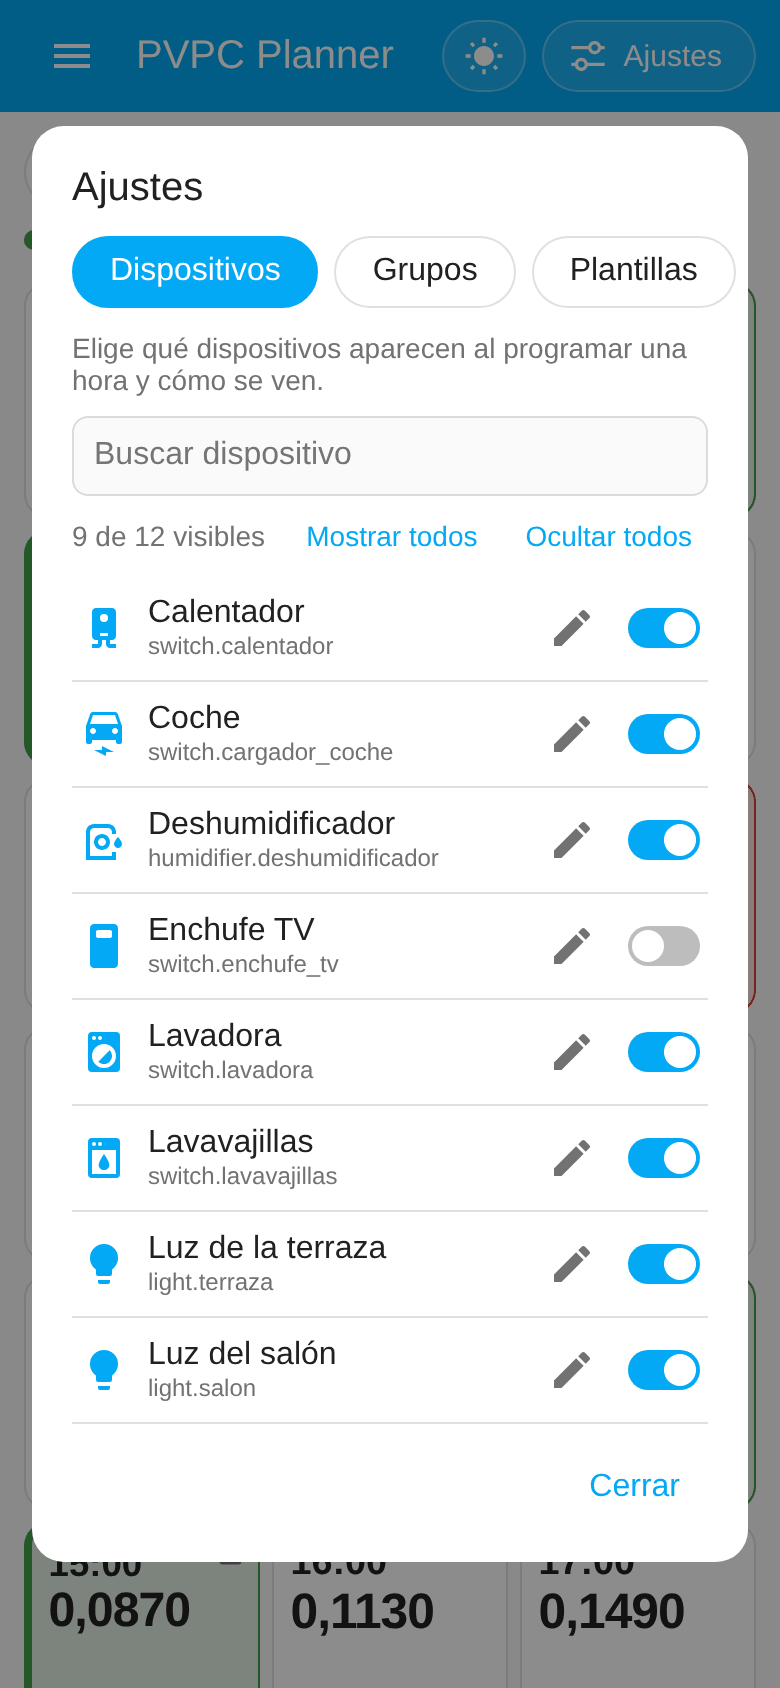
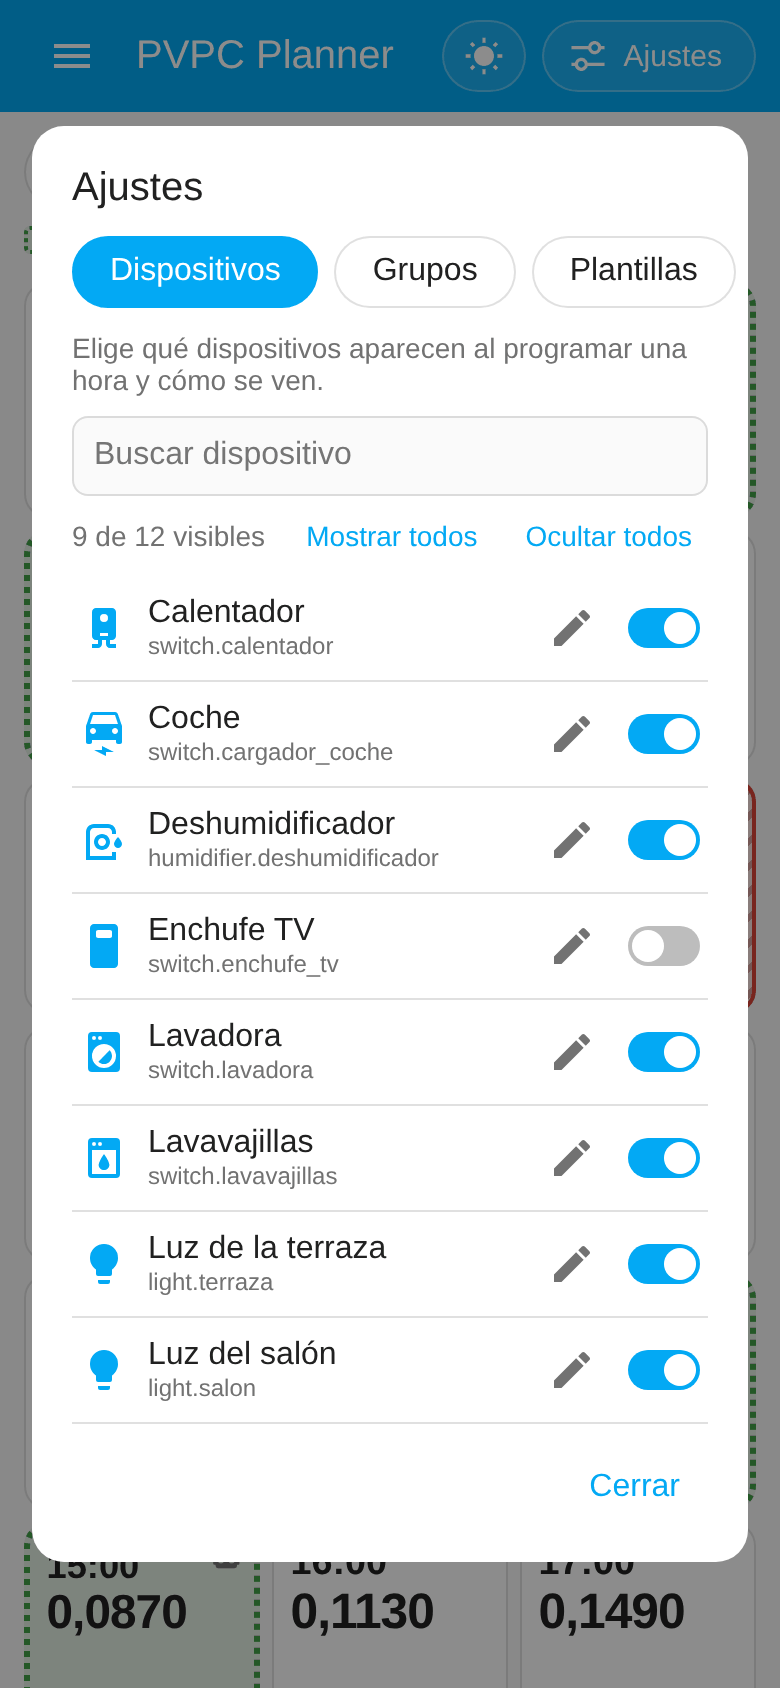
Panel: horas caras rayadas y baratas con borde punteado, como la imagen
Capturas y GIFs del README regenerados.

Claude-Session: https://claude.ai/code/session_01BaPuivz9ri5egTbV2ej3Jv

diff --git a/custom_components/pvpc_planner/frontend/pvpc-planner-panel.js b/custom_components/pvpc_planner/frontend/pvpc-planner-panel.js
@@ -467,7 +467,8 @@ const STYLE = `
 .tabs button.on { background: var(--primary-color); border-color: var(--primary-color); color: var(--text-primary-color, #fff); }
 .tabs button:disabled { opacity: .45; cursor: default; }
 .legend { display: flex; flex-wrap: wrap; gap: 4px 16px; font-size: 14px; color: var(--secondary-text-color); }
-.dot { display: inline-block; width: 10px; height: 10px; border-radius: 50%; margin-right: 6px; }
+.dot { display: inline-block; width: 14px; height: 14px; box-sizing: border-box; border-radius: 3px; margin-right: 6px; vertical-align: -2px; }
+.dot.cheap { border-width: 2px; }
 .msg:empty { display: none; }
 .msg { padding: 12px; border-radius: 8px; background: var(--card-background-color); margin-bottom: 12px; }
 /* Columnas divisoras de 24 para filas completas; celdas cuadradas. */
@@ -477,10 +478,14 @@ const STYLE = `
 .cell { aspect-ratio: 1; min-width: 0; overflow: hidden; box-sizing: border-box; display: grid; grid-template-rows: 1fr 1fr;
   container-type: inline-size; background: var(--card-background-color); border: 1px solid var(--divider-color); border-radius: 12px;
   padding: 7%; cursor: pointer; }
-.cell.cheap, .cell.expensive { border-color: var(--c); border-left-width: 4px;
-  background: color-mix(in srgb, var(--c) 15%, var(--card-background-color, #fff)); }
-.cell.cheap { --c: var(--success-color, #43a047); }
-.cell.expensive { --c: var(--error-color, #db4437); }
+/* Como la imagen para pantallas: caras rayadas, baratas con borde punteado. */
+.cheap, .expensive { --tint: color-mix(in srgb, var(--c) 15%, var(--card-background-color, #fff)); background: var(--tint); }
+.cheap { --c: var(--success-color, #43a047); border: 3px dotted var(--c); }
+.expensive { --c: var(--error-color, #db4437); border: 2px solid var(--c);
+  background: repeating-linear-gradient(135deg, color-mix(in srgb, var(--c) 45%, transparent) 0 3px, transparent 3px 9px), var(--tint); }
+/* Fondo liso bajo el texto para leerlo sobre las rayas. */
+.cell.expensive :is(.h, .p, .devs, .badge) { width: fit-content; border-radius: 4px; background: var(--tint);
+  box-shadow: 0 0 0 1.5cqw var(--tint); }
 .cell.past { opacity: .4; cursor: default; }
 .cell.now { outline: 2px solid var(--primary-color); outline-offset: -1px; }
 .cell:focus-visible { outline: 2px solid var(--primary-color); }
@@ -741,8 +746,8 @@ class PvpcPlannerPanel extends HTMLElement {
       <button data-day="tomorrow" class="${isToday ? "" : "on"}" ${tomorrow.length ? "" : `disabled title="${t("tomorrow_pending")}"`}>${t("tomorrow")}</button>`;
     const unit = stateObj.attributes.unit_of_measurement || "€/kWh";
     this._$(".legend").innerHTML = `
-      <span title="${t("cheapest", { n: TOP })}"><i class="dot" style="background:var(--success-color,#43a047)"></i>$</span>
-      <span title="${t("priciest", { n: TOP })}"><i class="dot" style="background:var(--error-color,#db4437)"></i>$$$</span>
+      <span title="${t("cheapest", { n: TOP })}"><i class="dot cheap"></i>$</span>
+      <span title="${t("priciest", { n: TOP })}"><i class="dot expensive"></i>$$$</span>
       ${Object.keys(this._templates).length ? `<span><ha-icon icon="mdi:robot" style="--mdc-icon-size:16px"></ha-icon> ${t("tpl_auto")}</span>` : ""}
       <span>${esc(unit)}</span>`;
 
